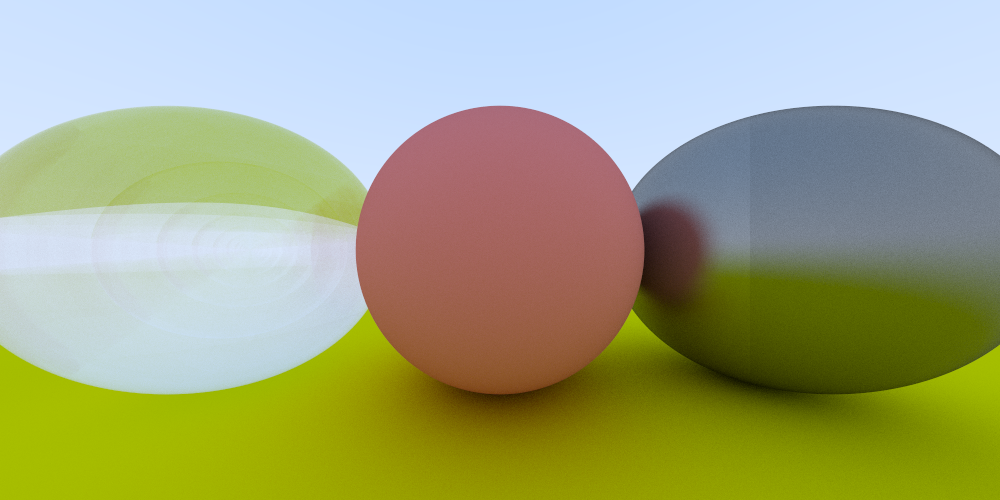
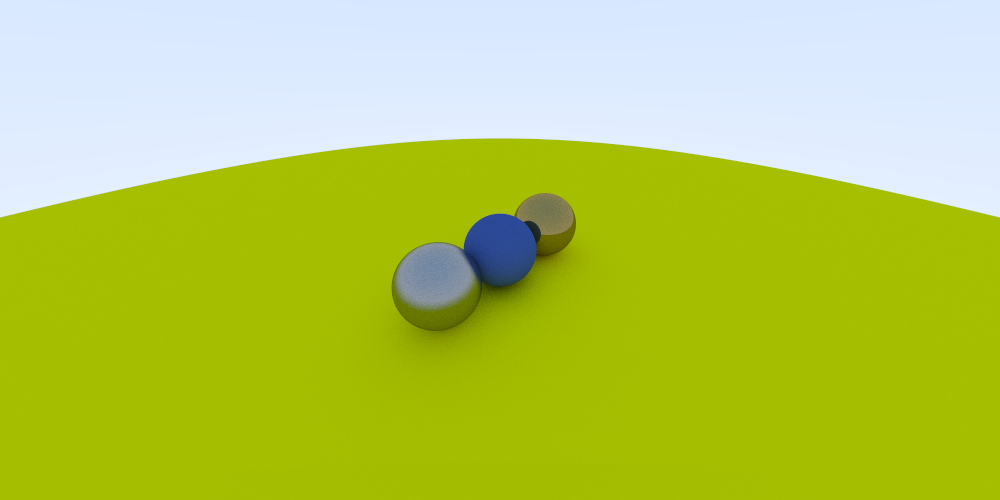
Didn't fix anything, but suddenly the differently positioned camera seems to be working. It's like magic, except more unpredictable.

diff --git a/src/lib/Material.cpp b/src/lib/Material.cpp
@@ -4,7 +4,7 @@
  * Created:
  *   1/22/2020, 10:18:56 PM
  * Last edited:
- *   1/24/2020, 11:05:59 AM
+ *   1/27/2020, 10:21:03 PM
  * Auto updated?
  *   Yes
  *
@@ -68,13 +68,14 @@ Dielectric::Dielectric(const Vec3& colour_absorption, double refrective_index)
 bool Dielectric::scatter(const Ray& ray_in, const HitRecord& record, Vec3& attenuation, Ray& ray_out) const {
     Vec3 outward_normal;
     double ni_over_nt;
-    attenuation = this->albedo;
+    attenuation = Vec3(1.0, 1.0, 1.0);//this->albedo;
     Vec3 refracted;
 
     double reflect_prob;
     double cosine;
 
     // I think this decides on what side of the sphere we hit; in to out or out to in.
+    /*
     if (dot(ray_in.direction, record.normal) > 0) {
         outward_normal = -record.normal;
         ni_over_nt = this->ref_idx;
@@ -84,7 +85,16 @@ bool Dielectric::scatter(const Ray& ray_in, const HitRecord& record, Vec3& atten
         ni_over_nt = 1.0 / this->ref_idx;
         cosine = -dot(ray_in.direction, record.normal) / ray_in.direction.length();
     }
+    */
+   if (dot(ray_in.direction, record.normal) > 0) {
+       outward_normal = -record.normal;
+       ni_over_nt = ref_idx;
+   } else {
+       outward_normal = record.normal;
+       ni_over_nt = 1.0 / ref_idx;
+   }
 
+    /*
     if (this->refract(ray_in.direction, outward_normal, ni_over_nt, refracted)) {
         reflect_prob = this->schlick(cosine);
     } else {
@@ -96,6 +106,14 @@ bool Dielectric::scatter(const Ray& ray_in, const HitRecord& record, Vec3& atten
     } else {
         ray_out = Ray(record.hitpoint, refracted);
     }
+    */
+   if (this->refract(ray_in.direction, outward_normal, ni_over_nt, refracted)) {
+       ray_out = Ray(record.hitpoint, refracted);
+   } else {
+       //ray_out = Ray(record.hitpoint, this->reflect(ray_in.direction, record.normal));
+       ray_out = ray_in;
+       return false;
+   }
 
     return true;
 }
@@ -106,6 +124,7 @@ bool Dielectric::refract(const Vec3& v, const Vec3& n, double ni_over_nt, Vec3& 
     Vec3 v_normalized = v.normalize();
     double dt = dot(v_normalized, n);
     double D = 1.0 - ni_over_nt * ni_over_nt * (1 - dt * dt);
+    // Only refract if there is a real solution to Snell's law
     if (D > 0) {
         refracted = ni_over_nt * (v_normalized - n * dt) - n * sqrt(D);
         return true;

diff --git a/src/Renderer.cpp b/src/Renderer.cpp
@@ -4,7 +4,7 @@
  * Created:
  *   1/22/2020, 1:00:17 PM
  * Last edited:
- *   1/27/2020, 8:40:04 PM
+ *   1/28/2020, 12:50:17 AM
  * Auto updated?
  *   Yes
  *
@@ -81,7 +81,7 @@ int main(int argc, char** argv) {
     try {
         number_of_rays = result["rays"].as<unsigned int>();
     } catch (domain_error& opt) {
-        number_of_rays = 300;
+        number_of_rays = 500;
     } catch (OptionParseException& opt) {
         cerr << "Could not parse number of rays: " << opt.what() << endl;
         exit(-1);
@@ -100,7 +100,7 @@ int main(int argc, char** argv) {
     try {
         batch_size = result["batch_size"].as<unsigned int>();
     } catch (domain_error& opt) {
-        batch_size = 500;
+        batch_size = 1000;
     } catch (OptionParseException& opt) {
         cerr << "Could not parse batch size: " << opt.what() << endl;
         exit(-1);
@@ -122,24 +122,18 @@ int main(int argc, char** argv) {
     } else {
         cout << "no" << endl;
     }
-    cout << "  Showing progressbar? ";
-    if (show_progressbar) {
-        cout << "yes" << endl;
-    } else {
-        cout << "no" << endl;
-    }
 
     cout << endl << "Creating world..." << endl;
     RenderWorld *world = new RenderWorld();
 
     cout << "Appending objects..." << endl;
-    world->add_object(new Sphere(Vec3(0, 0, -1), 0.5, new Lambertian(Vec3(0.8, 0.3, 0.3))));
+    world->add_object(new Sphere(Vec3(0, 0, -1), 0.5, new Lambertian(Vec3(0.1, 0.2, 0.5))));
     world->add_object(new Sphere(Vec3(0, -100.5, -1), 100, new Lambertian(Vec3(0.8, 0.8, 0.0))));
-    world->add_object(new Sphere(Vec3(1, 0, -1), 0.5, new Metal(Vec3(0.6, 0.6, 0.6), 0.3)));
+    world->add_object(new Sphere(Vec3(1, 0, -1), 0.5, new Metal(Vec3(0.8, 0.6, 0.2), 0.0)));
     world->add_object(new Sphere(Vec3(-1, 0, -1), 0.5, new Dielectric(Vec3(1.0, 1.0, 1.0), 1.5)));
 
     cout << "Appending cameras..." << endl;
-    world->add_camera(new Camera(Vec3(0, 0, 0), Vec3(0, 0, -1), Vec3(0, 1, 0), 90, screen_width, screen_height, number_of_rays, correct_gamma));
+    world->add_camera(new Camera(Vec3(-2, 2, 1), Vec3(0, 0, -1), Vec3(0, 1, 0), 45, screen_width, screen_height, number_of_rays, correct_gamma));
 
     // Render one picture
     cout << endl << "Rendering..." << endl;

diff --git a/src/lib/RenderWorld.cpp b/src/lib/RenderWorld.cpp
@@ -4,7 +4,7 @@
  * Created:
  *   1/27/2020, 2:30:39 PM
  * Last edited:
- *   1/27/2020, 8:39:56 PM
+ *   1/28/2020, 12:44:12 AM
  * Auto updated?
  *   Yes
  *
